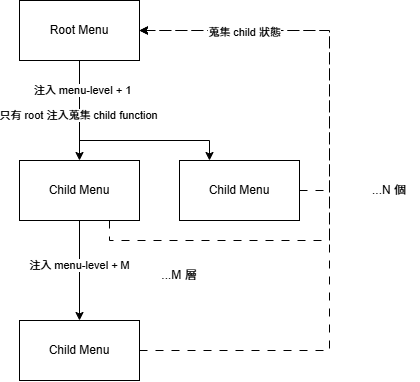
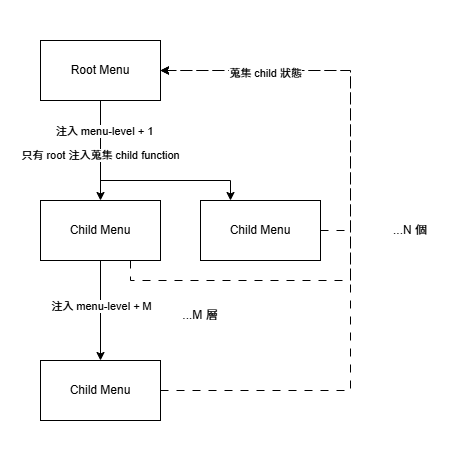
update

diff --git a/content/blog-vue/250519.quasar-menu-hover-on-open.md b/content/blog-vue/250519.quasar-menu-hover-on-open.md
@@ -83,14 +83,12 @@ draft: true
 
 ## 架構
 
-概念如下圖所示：
-
-有兩個工作：
+有兩個工作，概念如下圖所示：
 
 1. 注入一個紀錄 Menu 層級的變數
-1. root menu 接收所有 child menu 狀態
+1. root menu 注入收集 child 資料之 function
 
-[menu-hover 架構圖](./quasar-menu-hover-on-open/menu-hover-架構圖.png)
+![menu-hover 架構圖](/quasar-menu-hover-on-open/menu-hover-架構圖.png)
 
 由於要傳遞未知層級的資料，預計使用 [Vue 的 Provide/Inject](https://vuejs.org/guide/components/provide-inject) 處理。
 
